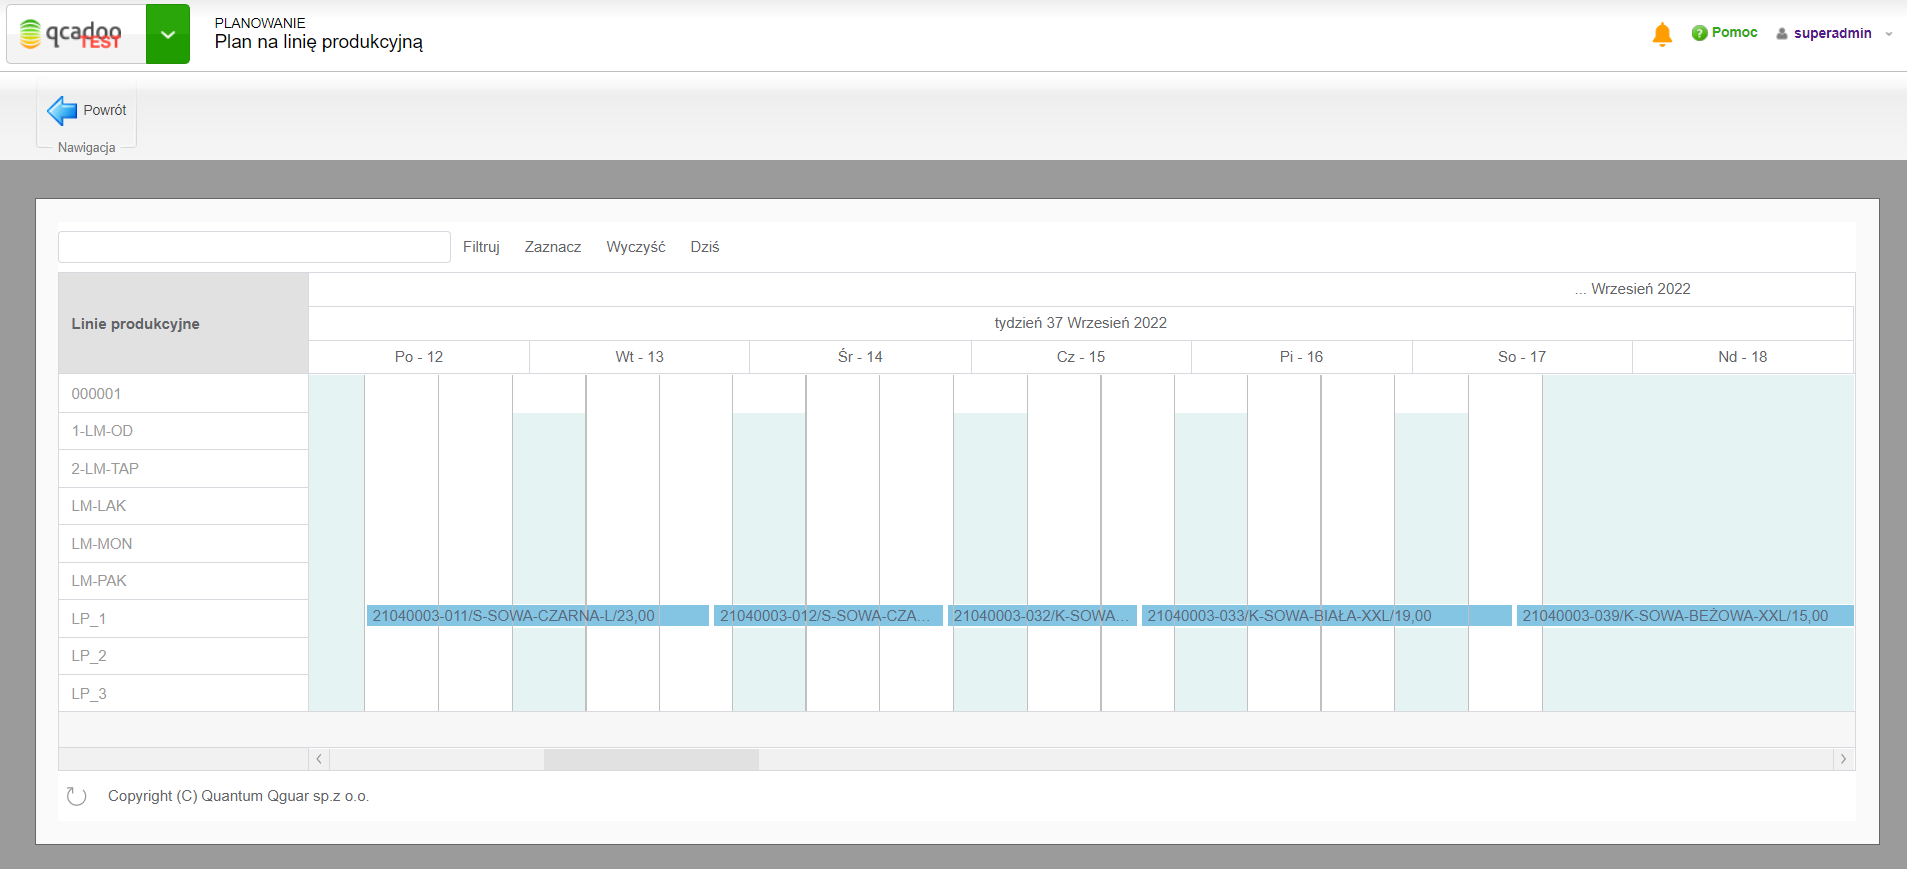
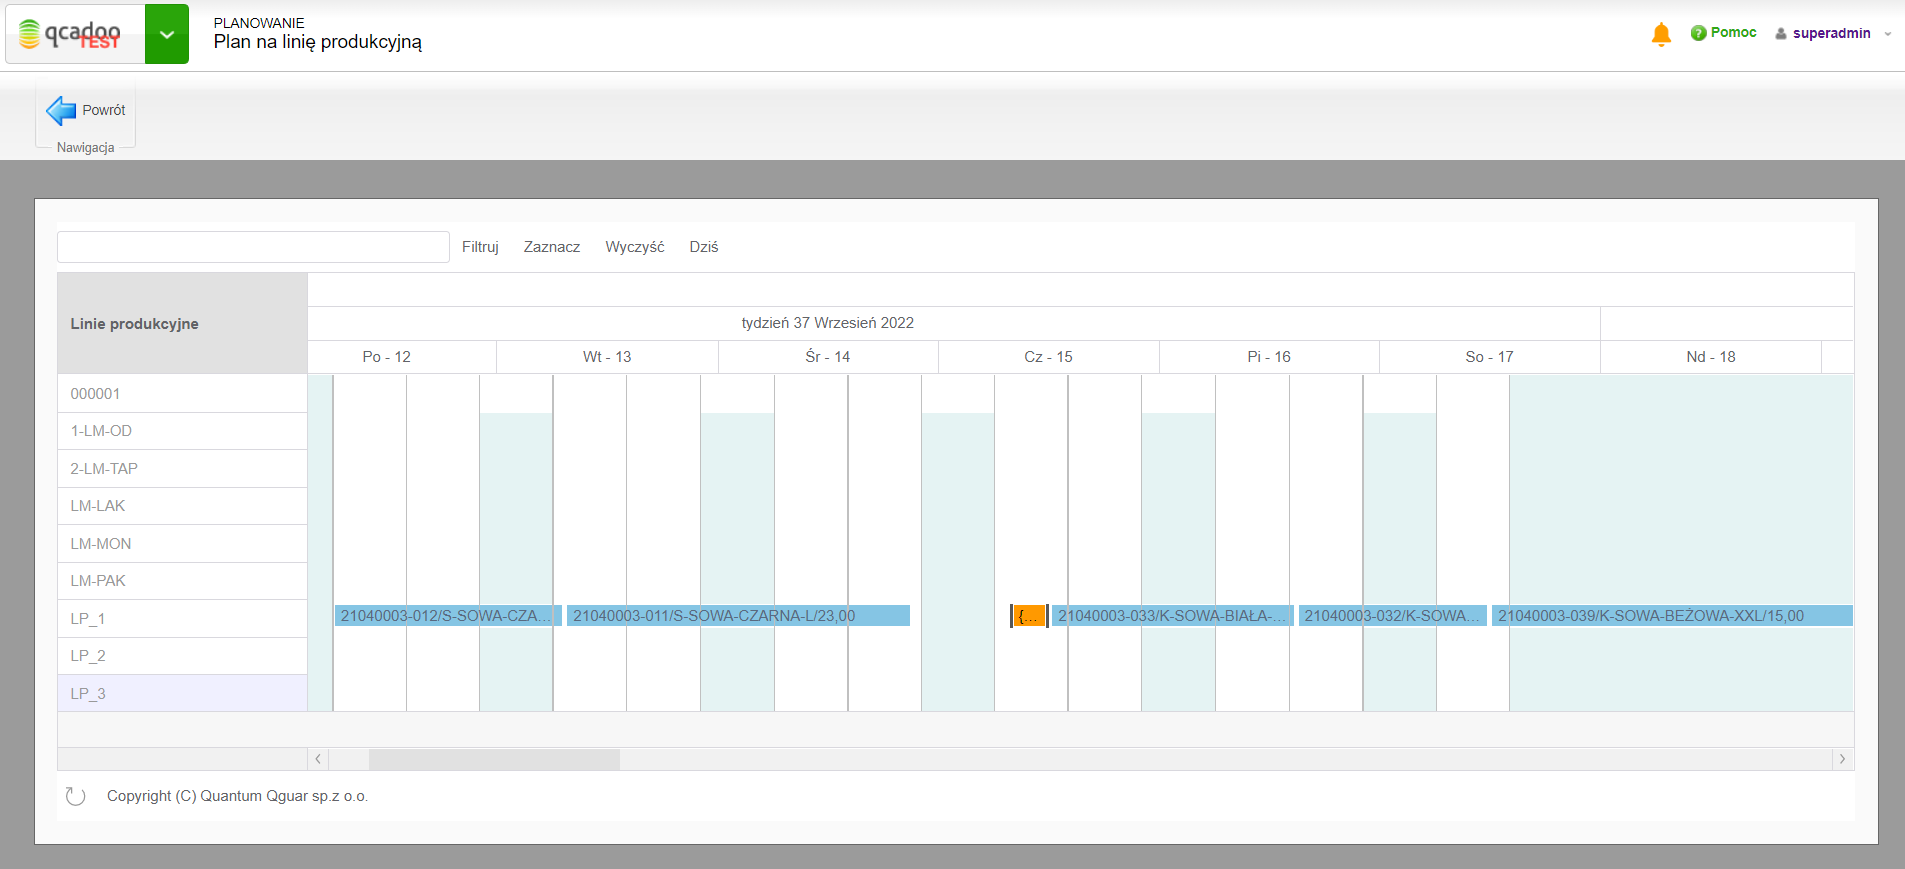
Małe poprawki, update zdjęć gantta

diff --git a/pages/planowanie/plan-na-linie-produkcyjna/gantt_linii.md b/pages/planowanie/plan-na-linie-produkcyjna/gantt_linii.md
@@ -10,11 +10,12 @@ Gantt uruchamiany jest z poziomu planu: wejdź w **planowanie > plan na linię p
 {% include lightbox.html file="planowanieGanttLinii.png" alt="Gantt linii" caption="Gantt linii" %}
 
 **<span style="color:red"> *Kilka informacji o działaniu Gantta linii*</span>:**
-1. wierszem jest stacja robocza. Pokazujemy wszystkie zdefiniowane stacje, posortowane alfabetycznie. Nie można zmieniać kolejności prezentowanych wierszy
-2. na wykresie prezentowane są zadania z planu. Są one ułożone czasowo na liniach danej stacji roboczej
-3. niebieskim kolorem oznaczone są okresy niepracujące. Wynikają one z kalendarza przypisanego do linii produkcyjnej, do której dana stacja należy. Jeśli zadanie zacznie się w piątek i skończy w poniedziałek to kafelek będzie przechodził przez wolny od pracy weekend
+1. wierszem jest linia produkcyjna. Pokazujemy wszystkie zdefiniowane linie, posortowane alfabetycznie. Nie można zmieniać kolejności prezentowanych wierszy
+2. na wykresie prezentowane są zlecenia z planu. Są one ułożone czasowo na liniach produkcyjnych
+3. niebieskim kolorem oznaczone są okresy niepracujące. Wynikają one z kalendarza przypisanego do linii produkcyjnej. Jeśli zadanie zacznie się w piątek i skończy w poniedziałek to kafelek będzie przechodził przez wolny od pracy weekend
 4. najważniejsze informacje o zadaniu zaprezentowane są w jego etykiecie. Ale jeśli chcesz zobaczyc więcej, najedź myszką na kafelek - pojawi się tooltip z pozostałymi informacjami
 5. jeśli dwukrotnie klikniesz w kafelek, zaznaczy się on na zielono.
+6. kolorem pomarańczowym oznaczone są przezbrojenia pomiędzy poszczególnymi technologiami w zleceniach
 7. dane na wykresie możesz filtrować. Wprowadź tekst do pola filtra (szukamy zlecenia po: numerze zlecenia oraz numerze produktu) i wybierz jedną z dwóch opcji:
 - _filtruj_ - wówczas pokażą się tylko te wiersze na których występują zlecenia spełniające warunki filtrowania, a odpowiednie kafelki zostaną podświetlone na zielono
 - _zaznacz_ - wówczas będą widoczne wszystkie wiersze, a zlecenia spełniające warunki filtrowania, zostaną zaznaczone na zielono

diff --git a/pages/planowanie/plan-na-linie-produkcyjna/plan-na-linie-produkcyjna.md b/pages/planowanie/plan-na-linie-produkcyjna/plan-na-linie-produkcyjna.md
@@ -73,7 +73,7 @@ Określ:
 
 {:start="4"}
 
-4. **Czas trwania zlecenia liczony w oparciu o** - do wyboru:
+4. **czas trwania zlecenia liczony w oparciu o** - do wyboru:
 - **_czasochłonność technologii_** -  czas trwania zlecenia będzie liczony w oparciu o normy czasowe operacji
 - **_plan na zmianę_** - czas trwania zlecenia liczony jest w oparciu o produkcję na zmianę i algorytm podany w parametrach. W tym wypadku konieczne jest, aby zdefiniować [przydziały do zmian](/przydzial-do-zmian) oraz upewnić się, że [parametr](/parametry-zlecen.html#plan-na-zmianę) **automatyczny plan na zmianę** jest zaznaczony
 
@@ -82,7 +82,7 @@ Określ:
 - **_najkrótszy czas produkcji na linii_** - czyli zlecenie zostanie przypisane do możliwej linii, która będzie miała najwcześniejszą datę zakończenia zlecenia
 - **_najmniej przezbrojeń_** - czyli zlecenie zostanie przypisane do możliwej linii, a następnie sprawdzamy czy konieczne jest wykonanie przezbrojenia w danym zleceniu. Wygrywa to, do którego przezbrojenie nie będzie potrzebne lub przezbrojenie będzie najkrótsze
 
-6. **Pozwól na zmianę linii** -  jeśli ten parametr jest zaznaczony, to zlecenie o statusie "oczekujące" traktujemy tak jakby nie miało przypisanej linii. W przypadku, gdy zlecenie ma status "zaakceptowane", to linię możemy zmienić jedynie kiedy [parametr](/parametry-zlecen) "Pozwól na zmianę linii produkcyjnej w zaakceptowanym zleceniu" jest zaznaczony. Jeśli nie chcesz, aby linia w zleceniu produkcyjnym była zastąpiona inną, to zostaw parametr niezaznaczony.
+6. **pozwól na zmianę linii** -  jeśli ten parametr jest zaznaczony, to zlecenie o statusie "oczekujące" traktujemy tak jakby nie miało przypisanej linii. W przypadku, gdy zlecenie ma status "zaakceptowane", to linię możemy zmienić jedynie kiedy [parametr](/parametry-zlecen) "Pozwól na zmianę linii produkcyjnej w zaakceptowanym zleceniu" jest zaznaczony. Jeśli nie chcesz, aby linia w zleceniu produkcyjnym była zastąpiona inną, to zostaw parametr niezaznaczony.
 
 ---
 
